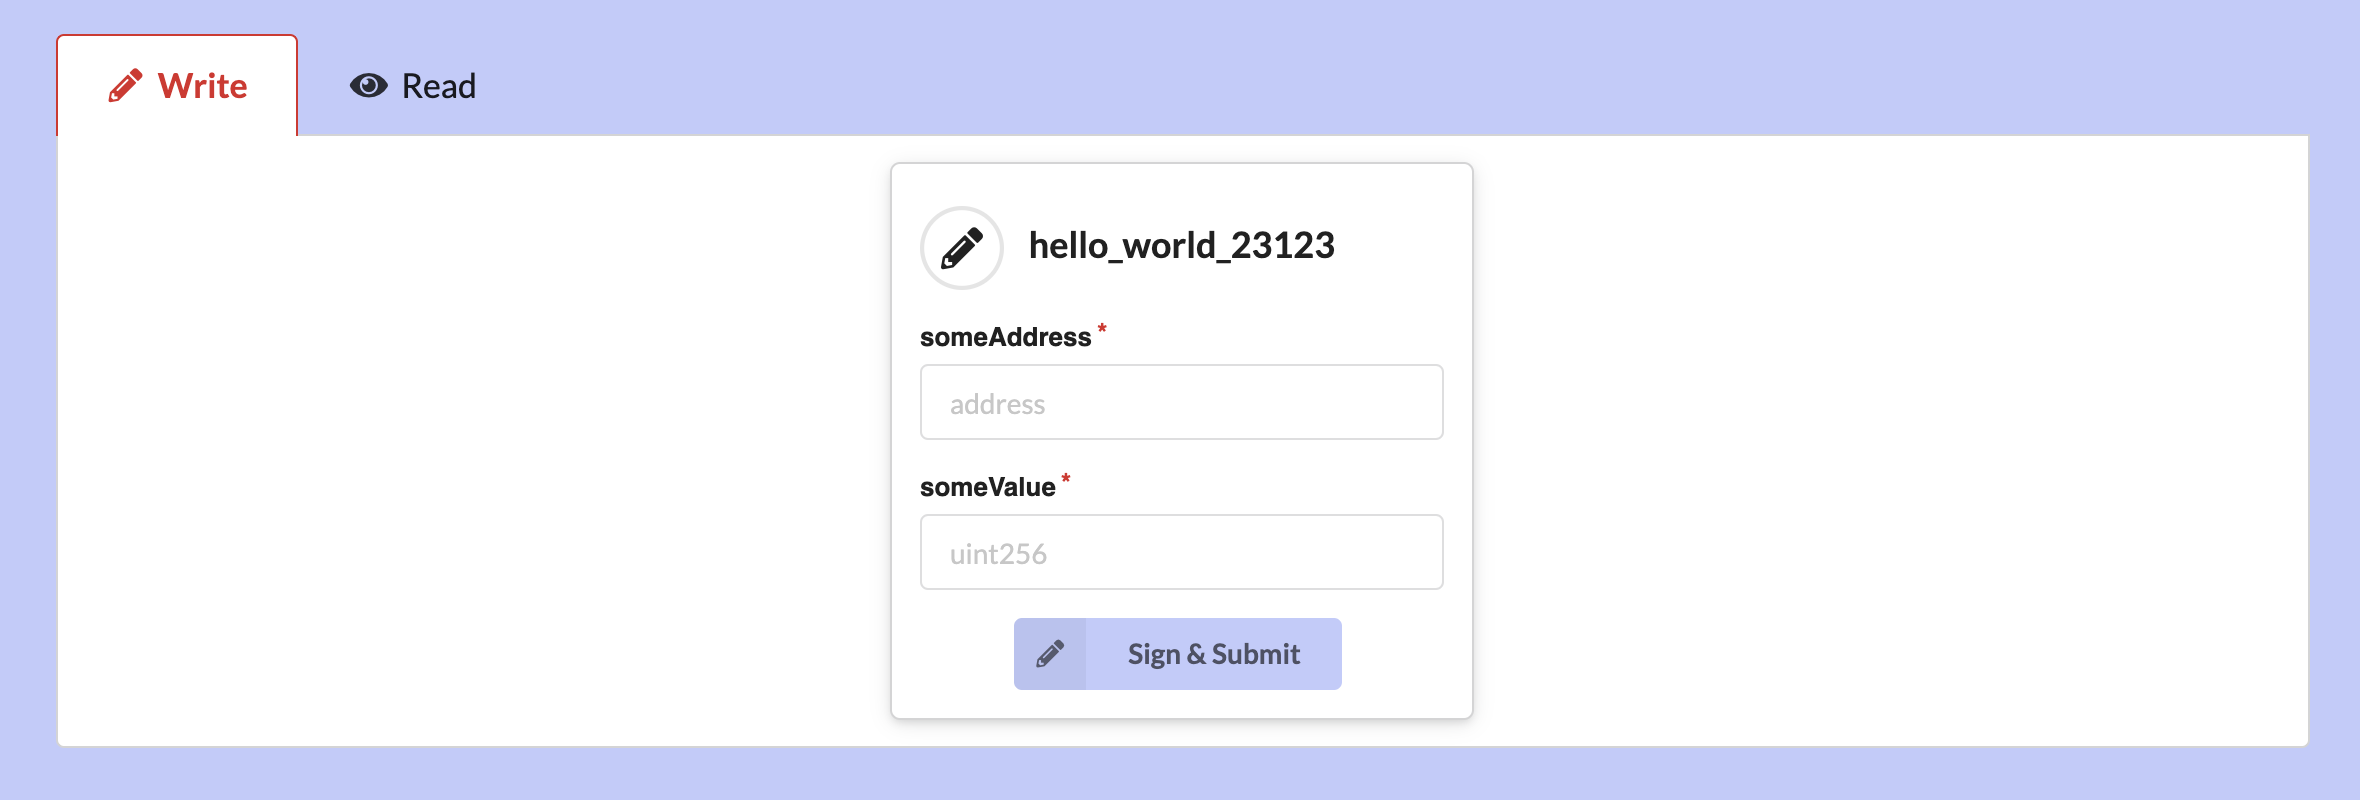
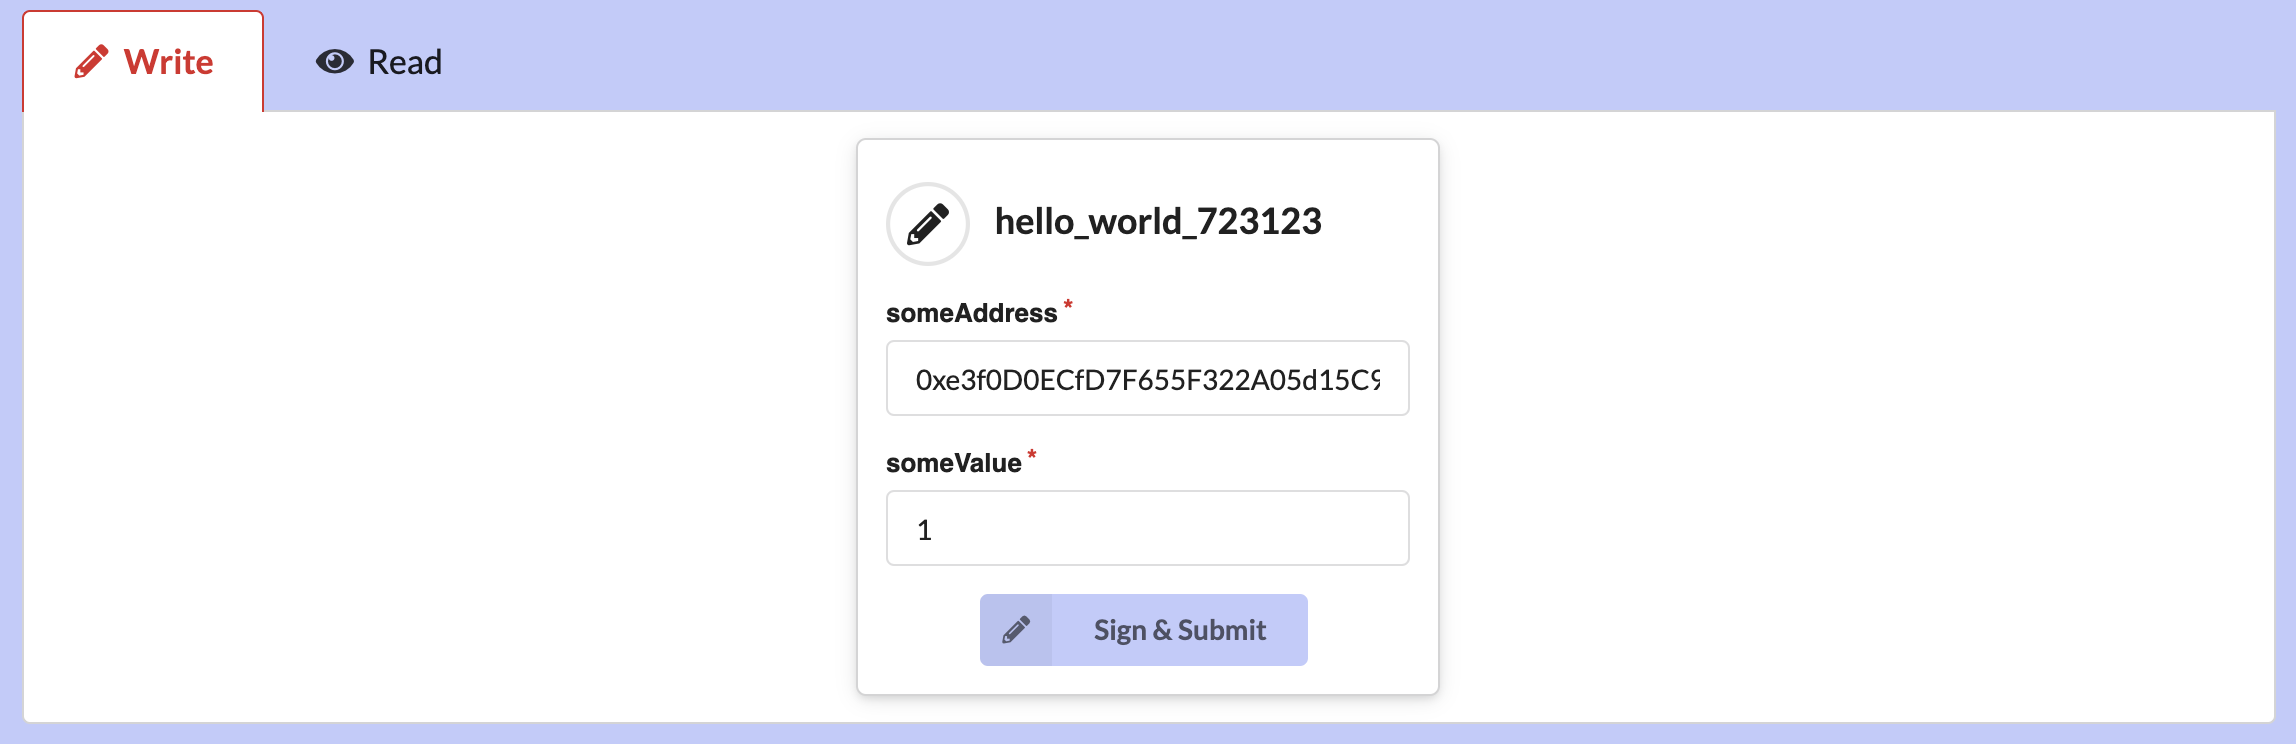
Docs improvements

diff --git a/USAGE.md b/USAGE.md
@@ -2,7 +2,7 @@
 
 ## Prerequisites
 
-1. Create a project in Infura and get your own endpoint URL for Ropsten network. You'll need it later for deploying your sample contract.
+1. Create a project in https://infura.io and get your own endpoint URL for Ropsten network. You'll need it later for deploying your sample contract.
 
 2. Get a seedphrase for a Ropsten account with some testnet ETH. You'll need it to pay for the gas for contract deployment.
 
@@ -47,10 +47,12 @@ Add a file called `HelloWorld.sol` inside `./contracts` directory with the follo
 pragma solidity ^0.5;
 
 contract HelloWorld {
-    function hello(address someAddress, uint256 someValue) public {
+    function <RANDOM-FUNCTION-NAME>(address someAddress, uint256 someValue) public {
     }
 }
 ```
+
+> Replace <RANDOM-FUNCTION-NAME> with some random valid solidity function name. Ensure to give it some random name as it may colide with other names from other users following this tutorial.
 
 Replace the **entire** contents of `./migrations/1_initial_migration.js` file with the following:
 
@@ -95,45 +97,6 @@ It should output something like this:
 
 Take note of the contract address, we'll use it to test if the function registration was successful.
 
-Now go to the https://oneclickdapp.com and create a sample dapp to interact with our just deployed contract.
-
-In the address field, paste the address from truffle output. In the interface ABI, paste the HelloWorld  contract ABI. You should be able to get it easily from the compiled artifacts by running:
-
-```sh
-$ cat build/contracts/HelloWorld.json | jq ".abi"
-```
-
-The configuration should look like this:
-
-![oneclickdapp-creation](docs/oneclickdapp-creation.png)
-
-Finish the dapp creation and you should see a simple UI where you can call the `hello` method from the smart contract with some parameters. Enter some random values and call `Sign and Submit`:
-
-![oneclickdapp-send](docs/oneclickdapp-send.png)
-
-Metamask should display a popup with the `hello` method name, even though we had not registered anything yet with the plugin. That is because I have already done it myself before for this tutorial 😃
-
-![oneclickdapp-send](docs/oneclickdapp-send-hello.png)
-
-Now let's see the plugin in action. First, open the `HelloWorld.sol` file and change the `hello` function name to something totally random, in my example I'll try `hello_world_23123`.
-
-Let's recompile and redeploy every from scratch:
-
-```
-$ npx truffle compile
-$ npx truffle migrate --network ropsten --reset
-```
-
-You'll get another contract address since we'd redeployed the HelloWorld contract from scratch. Create another dapp from scratch using oneclickdapp, note that the contract address and ABI will be different this time.
-
-You should get something like this:
-
-![oneclickdapp-send](docs/oneclickdapp-send-random.png)
-
-And if you sign and submit and function, the function name will not be recognized, you'll get a generic "Contract Interaction" message:
-
-![oneclickdapp-send](docs/oneclickdapp-send-hello-random.png)
-
 Let's now register our function signature in Mainnet. For this to happen we'll have to spend some real ETH to pay the gas.
 
 Export a seed phrase with some small amount of ETH as an environment variable called `TRUFFLE_PLUGIN_MNEMONIC` and run the plugin:
@@ -142,6 +105,8 @@ Export a seed phrase with some small amount of ETH as an environment variable ca
 $ export TRUFFLE_PLUGIN_MNEMONIC="<YOUR-SECRET-MAINNET-MNEMONIC-HERE>"
 $ npx truffle run register-methods HelloWorld
 ```
+
+> Replace `<YOUR-SECRET-MAINNET-MNEMONIC-HERE>` with your Mainnet seedphrase.
 
 In case of success it should output something like this:
 
@@ -160,5 +125,24 @@ Registration complete! 🎉🎉🎉🎉🎉
 
 > The plugin will scan all non-constant function in the smart contract, calculate the function selector, check if it is already registered, and if it is not, try to register it.
 
-Now if we try to call the function again in oneclickdapp, we should see the name is resolved (you may need to restart the browser for Metamask to recognize the change):
+Now go to the https://oneclickdapp.com and create a sample dapp to interact with our just deployed contract.
 
+In the address field, paste the address from truffle output. In the interface ABI, paste the HelloWorld  contract ABI. You should be able to get it easily from the compiled artifacts by running:
+
+```sh
+$ cat build/contracts/HelloWorld.json | jq ".abi"
+```
+
+The configuration should look like this:
+
+![oneclickdapp-creation](docs/oneclickdapp-creation.png)
+
+Finish the dapp creation and you should see a simple UI where you can call your function from the smart contract with some parameters. Enter some random values and call `Sign and Submit`:
+
+![oneclickdapp-send](docs/oneclickdapp-send-random.png)
+
+Metamask should display a popup with your function name and some parameter details in the data tab:
+
+![oneclickdapp-send](docs/oneclickdapp-send-hello-random1.png)
+
+![oneclickdapp-send](docs/oneclickdapp-send-hello-random2.png)
